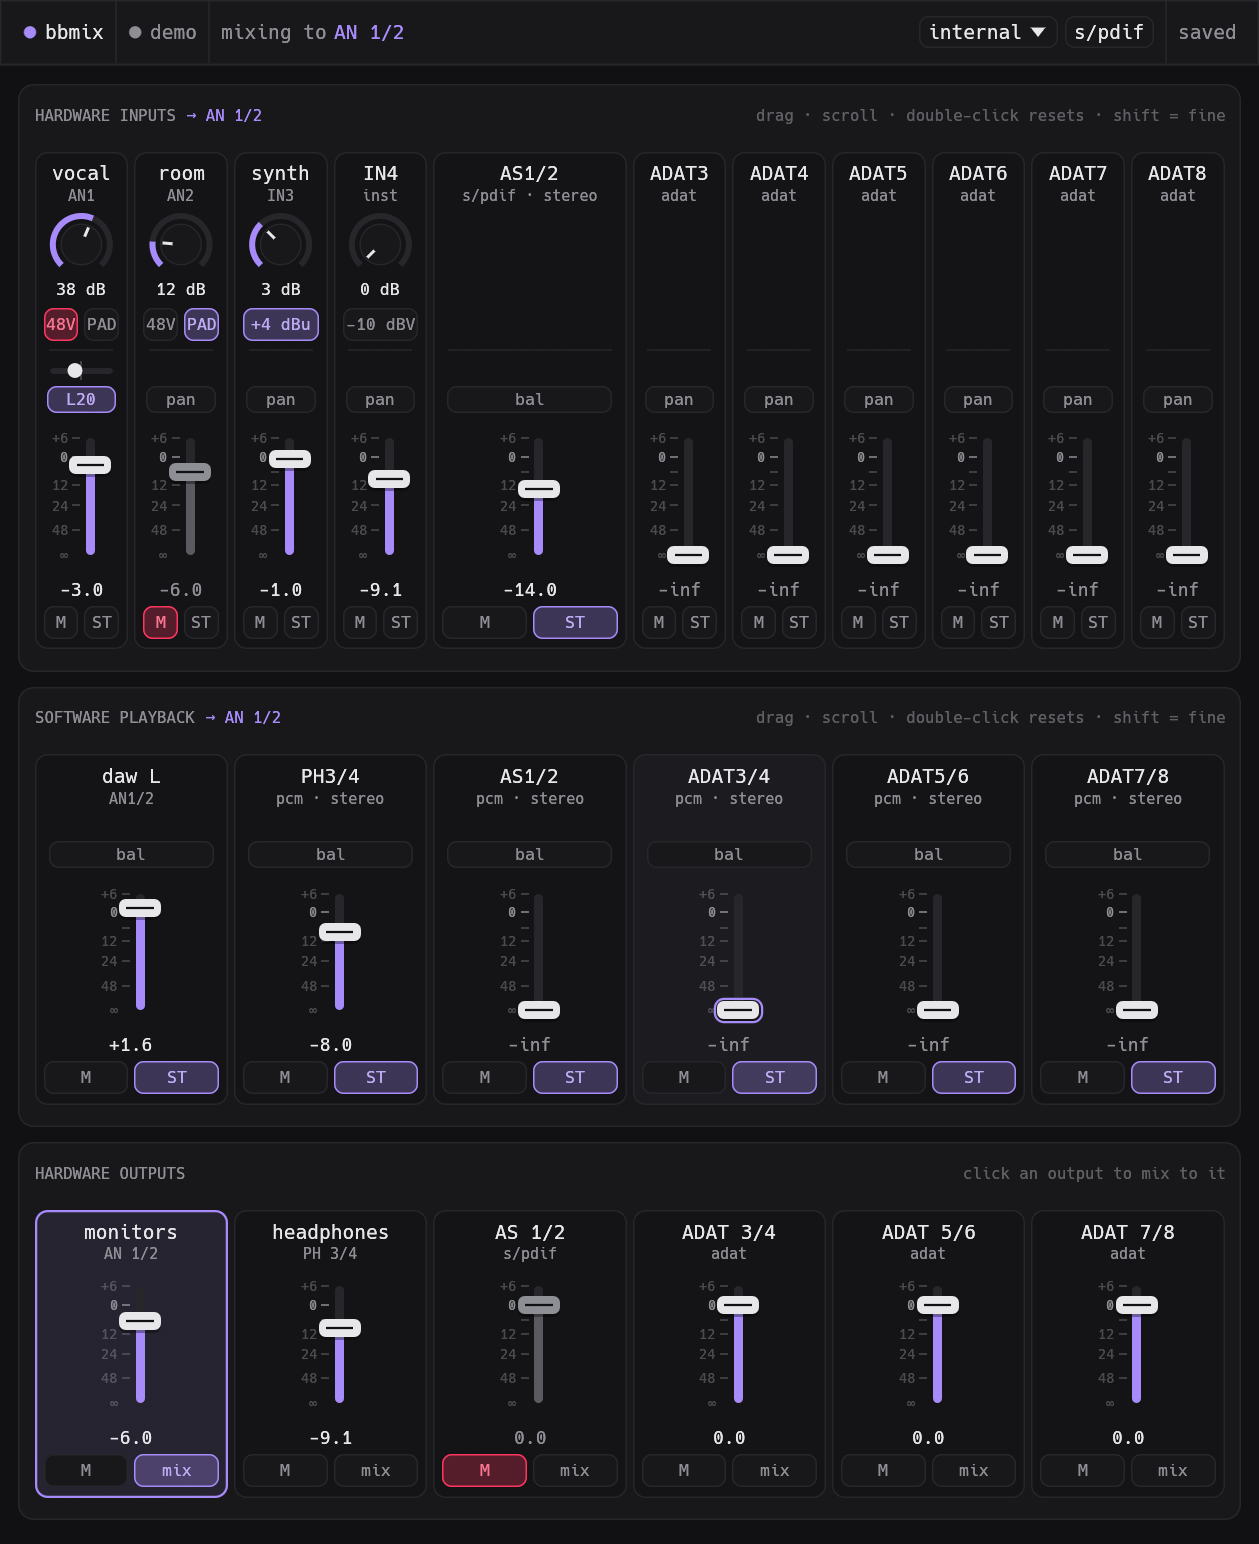
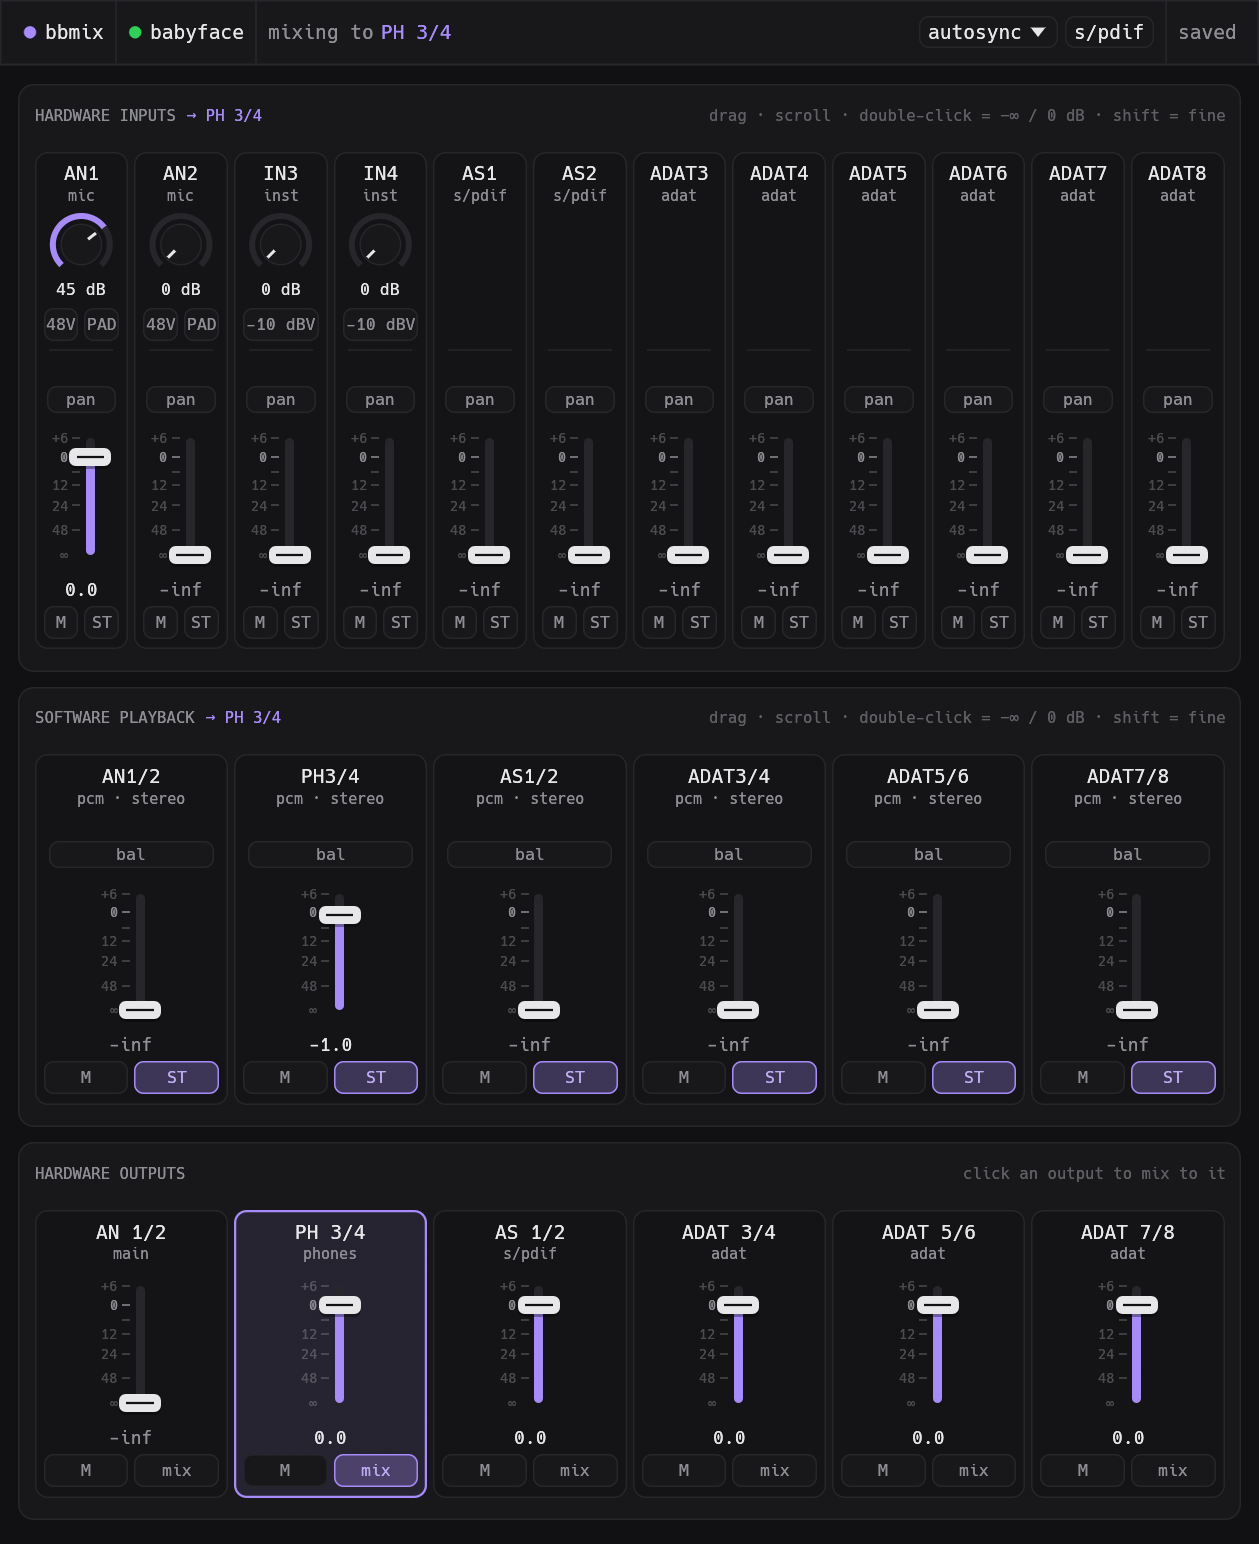
README: screenshot of bbmix running with a real Babyface Pro FS

diff --git a/README.md b/README.md
@@ -6,7 +6,7 @@ A modern mixer for the **RME Babyface Pro / Pro FS** on Linux, in the same look 
 RME never made Linux drivers or a Linux TotalMix, but the kernel's `snd-usb-audio`
 driver exposes the Babyface's hardware mixer as ALSA controls. bbmix is a front end for those.
 
-![bbmix](screenshots/bbmix.png)
+![bbmix running with a Babyface Pro FS](screenshots/bbmix.png)
 
 ## Features
 
